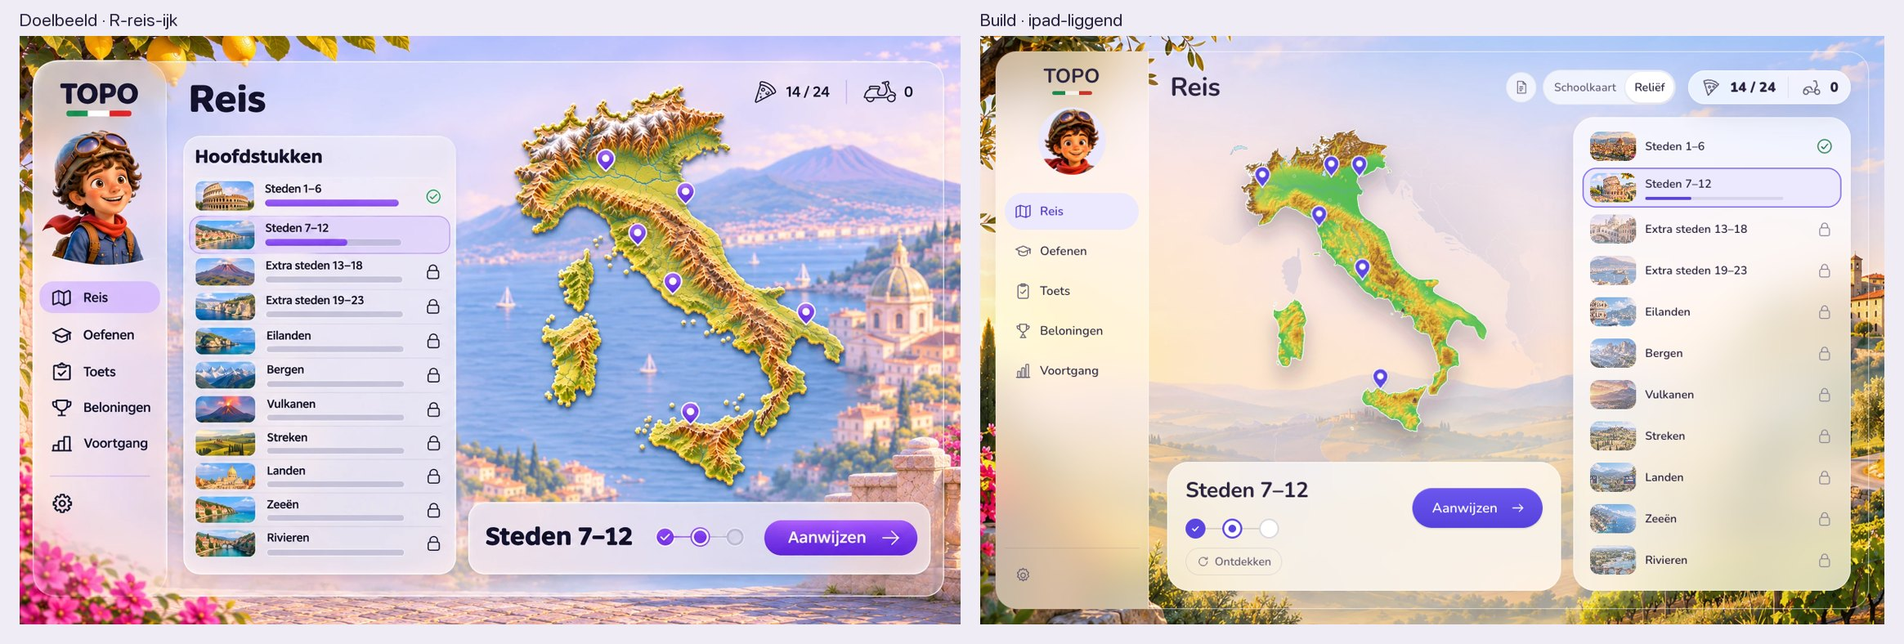
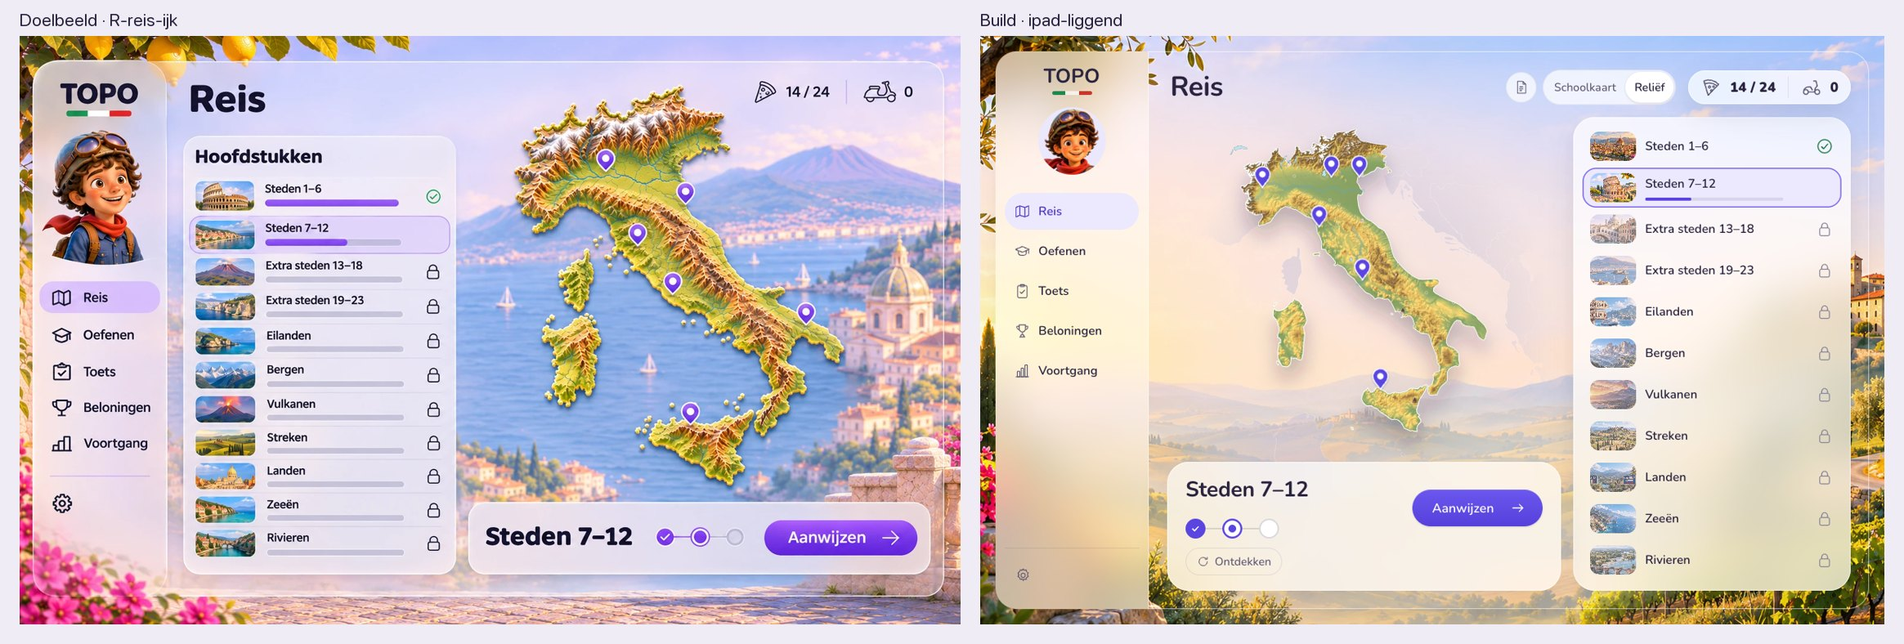
feat(v3): kalibreer typografie, artwork en voortgang (stap 3b)

diff --git a/scripts/v3/afwerking.css b/scripts/v3/afwerking.css
@@ -146,3 +146,67 @@
 .v3 .v3Rewards .v3BookCover{background:none!important;box-shadow:none!important;-webkit-backdrop-filter:none!important;backdrop-filter:none!important;border-radius:20px;cursor:pointer}
 .v3 .v3Rewards .v3BookCover:focus{outline:0}.v3 .v3Rewards .v3BookCover:focus-visible{outline:3px solid var(--v3-focus,#1d6fd8);outline-offset:6px}
 .v3 .v3Rewards .v3BookCover:active .v3CoverArt{transform:rotate(-2deg) scale(.98)}
+
+/* Kalibratie typografie en beeld, eigenaar 10-11 avond. Latest measured scale wins. */
+@media (min-width:768px){
+ .v3,body.v3Les{--v3-display:700 36px/1.15 var(--v3-font);--v3-row:600 16px/22px var(--v3-font);--v3-second:500 13px/18px var(--v3-font);--v3-card-title:700 28px/1.2 var(--v3-font);--v3-cal-nav:16px;--v3-cal-count:18px;--v3-cal-figure:32px;--v3-cal-score:52px;--v3-cal-action:17px;--v3-cal-action-h:48px}
+ body:is(.v3Home,.v3Les)::before{right:auto;width:calc(var(--v3-frame-m) + var(--v3-side-w));background:rgba(249,247,255,.25);-webkit-backdrop-filter:none;backdrop-filter:none}
+ .v3 .v3NavItem,body.v3Les .v3ShellNav .v3NavItem{font:600 var(--v3-cal-nav)/1.3 var(--v3-font)}
+ .v3 .v3NavItem .v3Icon{width:22px;height:22px}
+ .v3Reis :is(.v3Row,.v3Row .v3Name,.v3VgName,.v3Tile span,.v3VgTileLabel,.v3ToetsTile),.v3 :is(.v3Chip,.v3FormBtn),.v3Reis .v3ToetsSide .v3ToetsFouten li{font:var(--v3-row)}
+ .v3Reis .v3Count{font-size:var(--v3-cal-count)}
+ .v3Reis :is(.v3CardTitle,.v3VgKaartTitle){font:var(--v3-card-title)}
+ .v3Reis :is(.v3Rewards .v3Tile b,.v3Rewards .v3Ride>b,.v3VgTileText strong){font:700 var(--v3-cal-figure)/1.1 var(--v3-font)}
+ .v3Reis .v3View-toetsResult .v3ToetsScore{font-size:var(--v3-cal-score)}
+ .v3Reis :is(.v3VgLegend,.v3ToetsFouten li span,.v3VgDate,.v3VgEmpty){font:var(--v3-second)}
+ .v3 .v3Btn.primary{min-height:var(--v3-cal-action-h);font-size:var(--v3-cal-action);font-weight:600}
+ .v3Reis .v3View-toetsResult .v3ToetsScoreCard{padding:16px 24px;background:var(--v3-glass);-webkit-backdrop-filter:var(--v3-glass-filter);backdrop-filter:var(--v3-glass-filter);box-shadow:var(--v3-glass-shadow);border-radius:var(--v3-radius-glass);isolation:isolate}
+ .v3Rewards .v3TileIcon{width:72px;height:72px}
+ .v3Rewards .v3RidePizza{max-width:none;width:140px;max-width:100%}
+ .v3Rewards .v3RideArt{min-height:140px;max-height:210px}
+ .v3View-voortgang .v3VgKaart{background:none;box-shadow:none;border-radius:0}
+ .v3View-voortgang .v3VgMap{width:100%;max-width:100%}
+ .v3View-voortgang .v3VgChapters{overflow:visible;display:grid;gap:2px}
+ .v3View-voortgang .v3VgChapters li{min-height:40px;padding:3px 0}
+}
+@media (min-width:1280px){
+ .v3,body.v3Les{--v3-display:700 44px/1.15 var(--v3-font);--v3-row:600 17px/24px var(--v3-font);--v3-second:500 14px/20px var(--v3-font);--v3-card-title:700 32px/1.2 var(--v3-font);--v3-cal-nav:18px;--v3-cal-count:20px;--v3-cal-figure:40px;--v3-cal-score:64px;--v3-cal-action:18px;--v3-cal-action-h:52px}
+}
+@media (min-width:1024px){
+ /* All eleven rows are laid out; the whole Werkblad scrolls, never a clipped chapter row. */
+ .v3Reis[data-view=voortgang]>.v3View-voortgang{grid-template-columns:minmax(0,7fr) minmax(0,5fr);--v3-vg-h:max(800px,calc(100cqh - 76px - var(--v3-gut)))}
+ .v3View-voortgang .v3VgSide{height:auto;min-height:570px}
+ .v3View-voortgang .v3VgSide .v3Card{position:relative;inset:auto;height:auto;max-height:none;overflow:visible;padding:16px}
+ .v3View-voortgang .v3VgChapters li{grid-template-columns:44px minmax(0,1fr) 32px;gap:8px;position:relative;padding-bottom:7px}
+ .v3View-voortgang .v3VgThumb{width:44px;height:34px}
+ .v3View-voortgang .v3VgSteps{grid-column:2;grid-row:2;height:4px;margin-top:-4px}
+ .v3View-voortgang .v3VgStatus{grid-column:3;grid-row:1/3}
+}
+@media (min-width:1024px){
+ .v3Reis[data-view=voortgang]>.v3View-voortgang{grid-template-rows:auto 620px 204px;grid-auto-rows:auto}
+ .v3View-voortgang .v3VgKaart{height:auto;align-self:stretch}
+ .v3View-voortgang .v3VgKaart .v3VgMap{position:absolute;inset:12px;width:calc(100% - 24px);height:calc(100% - 24px)}
+ .v3View-voortgang .v3VgSide{min-height:0;height:100%}
+ .v3View-voortgang .v3VgSide .v3Card{box-sizing:border-box;height:100%}
+ .v3View-voortgang .v3VgSteps{height:10px}
+ .v3Reis .v3OefPanel .v3Chips{grid-template-columns:repeat(2,minmax(max-content,1fr))}
+ .v3OefPanel .v3Forms{grid-template-columns:repeat(2,minmax(0,1fr));gap:8px}
+ .v3OefPanel .v3FormBtn{flex-direction:row;justify-content:flex-start;min-height:56px;padding:8px;gap:8px;text-align:left}
+ .v3OefPanel{gap:16px;padding:20px}
+}
+@media (max-width:767px){.v3View-voortgang .v3VgKaart{background:none;box-shadow:none}}
+.v3View-voortgang .v3VgMap[data-kaart=eiland]{overflow:hidden!important}
+@media (min-width:1024px){
+ .v3View-voortgang .v3VgSide .v3VgChapters li{height:44px;min-height:44px;box-sizing:border-box;grid-template-rows:24px 10px;padding:0;gap:4px 8px}
+ .v3View-voortgang .v3VgSide .v3VgChapters .v3VgSteps{margin:0;height:10px}
+}
+@media (min-width:1024px){
+ .v3View-voortgang .v3VgKaart{grid-row:2}
+ .v3View-voortgang .v3VgRow{grid-column:1/-1;grid-row:3;grid-template-columns:repeat(3,minmax(0,1fr));grid-template-rows:144px;height:144px}
+ .v3View-voortgang .v3VgRow>.v3VgTile{grid-column:auto;grid-template-columns:48px minmax(0,1fr);row-gap:8px;padding:16px}
+ .v3View-voortgang .v3VgRow>.v3VgTile .v3VgDots{grid-column:2;justify-self:start}
+ .v3View-voortgang .v3VgRow>.v3VgTile .v3VgTileIcon{grid-row:1/3}
+ .v3Reis[data-view=voortgang]>.v3View-voortgang{grid-template-rows:auto 620px 144px}
+}
+.v3VgMap[data-kaart=eiland] .country.v3Hit{fill-opacity:.2!important;stroke-opacity:.4!important}
+.v3VgMap[data-kaart=eiland] .water.v3Hit{fill-opacity:.12!important}

diff --git a/scripts/v3/reis.js b/scripts/v3/reis.js
@@ -128,7 +128,7 @@
   defs.innerHTML='<clipPath id="'+prefix+'italyClip"><path d="'+d+'"/></clipPath>'
    +'<filter id="'+prefix+'isleShadow" x="-20%" y="-20%" width="140%" height="150%"><feDropShadow dx="0" dy="18" stdDeviation="12" flood-color="#2a2440" flood-opacity=".28"/></filter>'
    // Relief depth (afwerking 10-11): saturation 1.15 and a stronger hillshade (contrast around the mid tone).
-   +'<filter id="'+prefix+'reliefDepth" color-interpolation-filters="sRGB"><feColorMatrix type="saturate" values="1.15"/><feComponentTransfer><feFuncR type="linear" slope="1.2" intercept="-.1"/><feFuncG type="linear" slope="1.2" intercept="-.1"/><feFuncB type="linear" slope="1.2" intercept="-.1"/></feComponentTransfer></filter>'
+   +'<filter id="'+prefix+'reliefDepth" color-interpolation-filters="sRGB"><feColorMatrix type="matrix" values=".65 .45 -.10 0 0 .25 .70 .05 0 0 .15 .15 .70 0 0 0 0 0 1 0"/><feColorMatrix type="saturate" values="1.15"/><feComponentTransfer><feFuncR type="linear" slope="1.3" intercept="-.15"/><feFuncG type="linear" slope="1.3" intercept="-.15"/><feFuncB type="linear" slope="1.3" intercept="-.15"/></feComponentTransfer></filter>'
    +'<radialGradient id="'+prefix+'nbGrad" cx=".5" cy=".5" r=".5"><stop offset=".62" stop-color="#fff"/><stop offset="1" stop-color="#000"/></radialGradient>'
    +'<mask id="'+prefix+'nbFade" maskUnits="userSpaceOnUse"><rect class="v3FadeRect" x="0" y="0" width="890" height="1235" fill="url(#'+prefix+'nbGrad)"/></mask>';
   svg.prepend(defs);
@@ -158,7 +158,7 @@
  const CANVAS={w:890,h:1235},MARGIN=.14;
  function fit(svg){
   try{
-   const parts=[...svg.querySelectorAll('.italy,.v3Hit')];if(!parts.length)return;
+   const parts=[...svg.querySelectorAll(svg.dataset.frame==='italy'?'.italy,.v3Isle':'.italy,.v3Hit')];if(!parts.length)return;
    let x0=Infinity,y0=Infinity,x1=-Infinity,y1=-Infinity;
    for(const p of parts){const b=p.getBBox();if(!b.width&&!b.height&&p.tagName!=='circle')continue;x0=Math.min(x0,b.x);y0=Math.min(y0,b.y);x1=Math.max(x1,b.x+b.width);y1=Math.max(y1,b.y+b.height);}
    if(!isFinite(x0))return;

diff --git a/scripts/v3/voortgang.js b/scripts/v3/voortgang.js
@@ -38,7 +38,7 @@
   // Kaart: each place coloured by its status; legend.
   const fig=make('figure','v3VgKaart');
   const svg=V.cloneMap('v3v-','v3VgMap');
-  if(svg){svg.classList.add('v3Map');svg.dataset.relief='off';fig.append(svg);
+  if(svg){svg.classList.add('v3Map');svg.dataset.relief='off';svg.dataset.kaart='eiland';svg.dataset.frame='italy';V.addIsland(svg,'v3v-');fig.append(svg);
    const sea=svg.querySelector('.sea');
    for(const p of pp)svg.querySelectorAll('[data-id="'+p.item.id+'"]').forEach(n=>{n.classList.add('v3Hit','v3St-'+p.status);if(p.item.kind==='river')n.classList.add('v3StLine');});
    requestAnimationFrame(()=>{if(sea)svg.style.setProperty('--v3-sea-school',getComputedStyle(sea).fill);V.fit(svg);});}

diff --git a/scripts/qa-v3-afwerking.py b/scripts/qa-v3-afwerking.py
@@ -20,7 +20,7 @@ Runs with prefers-reduced-transparency: no-preference. Writes results-afwerking.
 
 Usage: node scripts/build-v3-preview.mjs && python3 scripts/qa-v3-afwerking.py [preview.html]
 """
-import asyncio, io, json, pathlib, sys
+import asyncio, io, json, pathlib, sys, os
 from playwright.async_api import async_playwright
 from PIL import Image
 
@@ -43,7 +43,7 @@ TEXTS = r'''() => {
       const clipped = (() => { for (let a = n.parentElement; a && a !== document.body; a = a.parentElement) { const o = cs(a); if (o.overflowX !== 'visible' || o.overflowY !== 'visible') { const q = a.getBoundingClientRect();
         if (r.top < q.top - 1 || r.bottom > q.bottom + 1 || r.left < q.left - 1 || r.right > q.right + 1) return true; } } return false; })();
       return {t: n.textContent.trim().slice(0, 24), color: s.color, size: parseFloat(s.fontSize), weight: parseInt(s.fontWeight), box: [r.left, r.top, r.width, r.height], clipped,
-        disabled: !!n.closest('button[disabled]')}; })
+        kind: n.matches('.v3NavItem,.v3NavItem span') ? 'nav' : n.matches('h1:not(.v3ToetsScore)') ? 'title' : n.matches('.v3Name,.v3VgName,.v3Chip,.v3FormBtn,.v3Tile>span,.v3ToetsTile') ? 'row' : '', disabled: !!n.closest('button[disabled]')}; })
     .filter(x => x.box[2] > 2 && x.box[3] > 2 && x.box[0] >= 0 && x.box[1] >= 0 && x.box[0] + x.box[2] <= W && x.box[1] + x.box[3] <= H && !x.clipped);
 }'''
 
@@ -75,7 +75,7 @@ SCREEN = r'''(screen) => {
   if (screen === 'rewards') { const b = q('.v3BookCover');
     return {openBtn: [...document.querySelectorAll('.v3Rewards button')].some(n => n.checkVisibility() && /Open Reisboekje/.test(n.textContent)), coverTab: b?.tabIndex,
       coverBg: b && cs(b).backgroundColor, coverFilter: b && cs(b).backdropFilter, labels: [...document.querySelectorAll('.v3Rewards .v3Tile span')].map(n => n.textContent.trim())}; }
-  if (screen === 'voortgang') return {lockedBars: [...document.querySelectorAll('.v3VgChapters [data-status=locked] .v3VgSteps')].filter(n => n.checkVisibility({visibilityProperty: true})).length};
+  if (screen === 'voortgang') return {island:q('.v3VgMap')?.dataset.kaart, clippedRows:[...document.querySelectorAll('.v3VgChapters li')].filter(n=>{const r=n.getBoundingClientRect(),p=n.closest('.v3Card').getBoundingClientRect();return r.height<40 || r.top<p.top || r.bottom>p.bottom;}).length, rowCount:document.querySelectorAll('.v3VgChapters li').length, lockedBars: [...document.querySelectorAll('.v3VgChapters [data-status=locked] .v3VgSteps')].filter(n => n.checkVisibility({visibilityProperty: true})).length};
   return null;
 }'''
 
@@ -88,13 +88,15 @@ def screen_checks(screen, vp, lay, sc, f):
         if wide and (lay['nino'] is None or lay['ninoOverlap'] > 0): f(f'Nino overlaps a panel ({lay["ninoOverlap"]} px²)')
         if sc['color'] != sc['accent'] or sc['weight'] != '600': f(f'score {sc["color"]}/{sc["weight"]} (violet 600)')
         if sc['outline'] not in ('none', ''): f(f'focus ring on the score ({sc["outline"]})')
-        if sc['cardBg'] not in ('rgba(0, 0, 0, 0)', 'transparent') or sc['cardShadow'] != 'none': f('score in a card')
+        if sc['cardBg'] in ('rgba(0, 0, 0, 0)', 'transparent') or sc['cardShadow'] == 'none': f('score lacks glass card')
     if screen == 'rewards':
         if sc['openBtn']: f('"Open Reisboekje" button shown')
         if sc['coverTab'] != 0: f(f'book cover not focusable ({sc["coverTab"]})')
         if sc['coverBg'] not in ('rgba(0, 0, 0, 0)', 'transparent') or sc['coverFilter'] != 'none': f(f'circle behind the book ({sc["coverBg"]}, {sc["coverFilter"]})')
         if 'Pizza' not in sc['labels'] or any(l.startswith('Pizza ') for l in sc['labels']): f(f'tile labels {sc["labels"]}')
-    if screen == 'voortgang' and sc['lockedBars']: f(f'{sc["lockedBars"]} locked rows with a bar')
+    if screen == 'voortgang':
+        if sc['lockedBars']: f(f'{sc["lockedBars"]} locked rows with a bar')
+        if sc['island'] != 'eiland' or sc['rowCount'] != 11 or sc['clippedRows']: f(f'progress island/rows {sc}')
 
 
 def lum(rgb):
@@ -151,8 +153,9 @@ async def main():
     async with async_playwright() as pw:
         b = await pw.chromium.launch(executable_path=MAC_CHROME) if pathlib.Path(MAC_CHROME).exists() else await pw.chromium.launch()
         for vp, (w, h) in VIEWPORTS.items():
+            if os.environ.get('TOPO_QA_QUICK') and vp != 'desktop': continue
             for screen in SCREENS:
-                for bg in (BGS if screen in LANDSCHAP and vp != 'ipad-staand' else ['bg01']):
+                for bg in (BGS if not os.environ.get('TOPO_QA_QUICK') and screen in LANDSCHAP and vp != 'ipad-staand' else ['bg01']):
                     tag = f'{screen}/{vp}/{bg}'
                     ctx = await b.new_context(viewport={'width': w, 'height': h}, device_scale_factor=1, has_touch=vp != 'desktop')
                     pg = await ctx.new_page(); errs = []; pg.on('pageerror', lambda e: errs.append(str(e)))
@@ -170,10 +173,14 @@ async def main():
                     hov = await pg.evaluate('document.documentElement.scrollWidth > innerWidth + 1')
                     f = lambda why: fails.append(f'{tag}: {why}')
                     if small: f(f'text < 13 px: {small[:5]}')
+                    for t in texts:
+                        minimum = {'title': 44 if w >= 1280 else 36, 'nav': 18 if w >= 1280 else 16, 'row': 17 if w >= 1280 else 16}.get(t['kind'], 0)
+                        if t['size'] < minimum: f(f"{t['kind']} {t['t']}: {t['size']} < {minimum}")
                     if low: f(f'contrast < AA: {low[:4]}')
                     if hov: f('horizontal overflow')
                     if errs: f(f'page errors {errs[:2]}')
                     if bg == 'bg01': screen_checks(screen, vp, lay, sc, f)
+                    print(tag, 'checked', flush=True)
                     res['runs'][tag] = {'texts': len(texts), 'small': small, 'lowContrast': low} | ({'mapShare': round(lay['share'], 3), 'ninoOverlap': lay['ninoOverlap']} if lay else {})
                     await ctx.close()
         await b.close()

diff --git a/scripts/qa-v3-faseb-toets.py b/scripts/qa-v3-faseb-toets.py
@@ -44,7 +44,7 @@ PROBE = r'''() => {
   const cs = (n, pe) => getComputedStyle(n, pe), px = v => parseFloat(v) || 0, vis = n => n && n.checkVisibility() && n.getBoundingClientRect().width > 0;
   const text = n => [...n.childNodes].some(c => c.nodeType === 3 && c.textContent.trim());
   const view = q('.v3View-toets'), setup = q('.v3ToetsSetup'), nino = q('.v3ToetsSetupNino');
-  const big = [...document.querySelectorAll('.v3Reis *')].filter(n => text(n) && vis(n) && px(cs(n).fontSize) >= 30 && !n.closest('.v3Brand')).map(n => n.textContent.trim().slice(0, 30));
+  const big = [...document.querySelectorAll('.v3Reis *')].filter(n => text(n) && vis(n) && px(cs(n).fontSize) >= 30 && !n.closest('.v3Brand,.v3Field h2')).map(n => n.textContent.trim().slice(0, 30));
   const chips = [...document.querySelectorAll('[aria-labelledby=v3ToetsHoofdstukken] .v3Chip')].map(c => ({t: c.textContent.replace(/\s+/g, ' ').trim(), on: c.getAttribute('aria-pressed') === 'true',
     check: !!c.querySelector('use[href="#topo-v3checkmark"]'), h: Math.round(c.getBoundingClientRect().height), clip: c.scrollWidth > c.clientWidth + 1, l: Math.round(c.getBoundingClientRect().left)}));
   const forms = [...document.querySelectorAll('[aria-labelledby=v3ToetsVorm] .v3FormBtn')].map(b => ({v: b.dataset.value, icons: b.querySelectorAll('svg.v3Icon').length, img: !!b.querySelector('img')}));
@@ -63,7 +63,7 @@ RESULT = r'''() => {
   const cs = (n, pe) => getComputedStyle(n, pe), px = v => parseFloat(v) || 0, vis = n => n && n.checkVisibility() && n.getBoundingClientRect().width > 0;
   const text = n => [...n.childNodes].some(c => c.nodeType === 3 && c.textContent.trim());
   const v = q('.v3View-toetsResult'), map = v.querySelector('.v3ToetsMap'), card = v.querySelector('.v3ToetsScoreCard'), side = v.querySelector('.v3ToetsSide');
-  const big = [...document.querySelectorAll('.v3Reis *')].filter(n => text(n) && vis(n) && px(cs(n).fontSize) >= 30 && !n.closest('.v3Brand')).map(n => n.textContent.trim().slice(0, 30));
+  const big = [...document.querySelectorAll('.v3Reis *')].filter(n => text(n) && vis(n) && px(cs(n).fontSize) >= 30 && !n.closest('.v3Brand,.v3Field h2')).map(n => n.textContent.trim().slice(0, 30));
   const mb = R(map), marks = [...map.querySelectorAll('.v3Mark circle')].map(R);
   const tiles = [...v.querySelectorAll('.v3ToetsTile')].map(b => ({t: b.textContent.trim(), icon: !!b.querySelector('svg.v3Icon')}));
   const prim = v.querySelector('.v3ToetsActions .primary');
@@ -85,7 +85,7 @@ def result_checks(p, tag, variant, wide, fail):
     if p['kaart'] != variant: f(f'map variant {p["kaart"]}')
     if variant == 'eiland' and 'v3t-italyClip' not in p['clip']: f(f'relief not clipped ({p["clip"]})')
     if p['sideBg'] in ('rgba(0, 0, 0, 0)', 'transparent'): f('panel not glass')
-    if p['cardBg'] not in ('rgba(0, 0, 0, 0)', 'transparent') or p['cardShadow'] != 'none': f('score in a card')
+    if p['cardBg'] in ('rgba(0, 0, 0, 0)', 'transparent') or p['cardShadow'] == 'none': f('score lacks glass card')
     if [t['t'] for t in p['tiles']] != ['Nieuwe toets', 'Kopieer', 'E-mail', 'Print'] or not all(t['icon'] for t in p['tiles']): f(f'tiles {p["tiles"]}')
     if p['primary'] != 'Oefen deze fouten' or not p['primaryIcon']: f(f'primary {p["primary"]}')
     if len(p['rows']) != 3 or not all(p['rows']): f(f'mistake rows with × {p["rows"]}')

diff --git a/scripts/qa-v3-faseb-voortgang.py b/scripts/qa-v3-faseb-voortgang.py
@@ -71,12 +71,12 @@ def checks(p, tag, vp, fail):
     f = lambda why: fail(f'{tag}: {why}')
     # Afwerking 10-11: key figures are 32–44/700 by design; the words are only the title.
     words = [t for t in p['big'] if not FIG.match(t)]
-    if words != ['Voortgang'] or p['countText'] not in p['big'] or not p['countText'].endswith(' / 45'): f(f'display texts {p["big"]}')
+    if [w for w in words if not w.startswith('Italië')] != ['Voortgang'] or p['countText'] not in p['big'] or not p['countText'].endswith(' / 45'): f(f'display texts {p["big"]}')
     if p['h1Color'] != p['ink'] or p['countColor'] != p['ink']: f(f'title bar not in ink ({p["h1Color"]}, {p["countColor"]})')
     wide = vp != 'telefoon'
     if wide and not near(p['h1']['t'] + p['h1']['h'] / 2, p['count']['t'] + p['count']['h'] / 2, 4): f('title and count not on one line')
     if p['bar']['h'] < 14 or (wide and p['bar']['w'] < .4 * p['inner']): f(f'bar not broad ({p["bar"]["w"]:.0f}×{p["bar"]["h"]:.0f})')
-    if p['figBg'] != 'rgb(255, 255, 255)' or not p['svgIn'] or p['relief'] != 'off': f(f'map card ({p["figBg"]}, svg {p["svgIn"]}, relief {p["relief"]})')
+    if p['figBg'] not in ('rgba(0, 0, 0, 0)', 'transparent') or not p['svgIn'] or p['relief'] != 'off': f(f'map card ({p["figBg"]}, svg {p["svgIn"]}, relief {p["relief"]})')
     if p['legend'] != ['Beheerst', 'Bezig', 'Nog niet'] or not p['legendIn']: f(f'legend {p["legend"]}')
     if p['fillHi'] and p['fillHi'] != p['accent']: f(f'mastered place {p["fillHi"]} ≠ accent {p["accent"]}')
     if p['fillLo'] and p['fillLo'] != 'rgb(243, 236, 220)': f(f'place not started {p["fillLo"]} ≠ cream')
@@ -93,9 +93,9 @@ def checks(p, tag, vp, fail):
         if not near(sd['l'], fig['r'] + g, 1.5) or not near(sd['r'], x1, 1.5): f(f'chapters not between the map card and the inner margin ({sd["l"]:.1f}–{sd["r"]:.1f})')
         if not near(sd['t'], fig['t']): f('map card and chapters not on one top line')
         if p['sideScroll']['sh'] > p['sideScroll']['ch'] + 1 and p['sideScroll']['ov'] not in ('auto', 'scroll'): f('chapters overflow without their own scroll')
-        dg, pz, rd = p['dag'], p['piz'], p['rid']
-        if not near(dg['l'], sd['l']) or not near(dg['r'], sd['r']) or dg['t'] < sd['b'] or not near(pz['l'], sd['l']) or not near(rd['r'], sd['r']) or not near(pz['t'], rd['t']) or not near(rd['b'], fig['b']):
-            f('Dagdoel over the column, Pizza’s and Vespa-ritten side by side on the map card’s bottom line')
+        tiles = [p['dag'], p['piz'], p['rid']]
+        if max(t['t'] for t in tiles) - min(t['t'] for t in tiles) > 1 or min(t['t'] for t in tiles) < fig['b'] or max(t['w'] for t in tiles) - min(t['w'] for t in tiles) > 1:
+            f('three equal tiles must follow the map and chapter row')
     if p['hOverflow']: f('horizontal overflow')
 
 

diff --git a/scripts/qa-v3-faseb.py b/scripts/qa-v3-faseb.py
@@ -47,7 +47,7 @@ PROBE = r'''() => {
   const gut = px(rs.columnGap), inner = gut + 8;
   const rows = R(q('.v3Rows')), main = R(q('.v3Main')), title = R(q('.v3ScreenTitle')), top = R(q('.v3Main>.v3Top')), card = R(q('.v3Panel')), stage = R(q('.v3MapStage'));
   const content = frame.w - side.w - 2 * inner, col = (content - 11 * gut) / 12;
-  const big = [...document.querySelectorAll('.v3Reis *')].filter(n => n.childNodes.length && [...n.childNodes].some(c => c.nodeType === 3 && c.textContent.trim()) && n.checkVisibility() && px(cs(n).fontSize) >= 30 && !n.closest('.v3Brand'))
+  const big = [...document.querySelectorAll('.v3Reis *')].filter(n => n.childNodes.length && [...n.childNodes].some(c => c.nodeType === 3 && c.textContent.trim()) && n.checkVisibility() && px(cs(n).fontSize) >= 30 && !n.closest('.v3Brand,.v3CardTitle'))
     .map(n => n.textContent.trim().slice(0, 30));
   const lt = q('#v3ListTitle'), ltVisible = lt && lt.getBoundingClientRect().width > 2;
   const rowInfo = [...document.querySelectorAll('.v3Row')].map(b => ({state: b.dataset.state, bar: !!b.querySelector('.v3RowBar'), icon: (b.querySelector('.v3End use')?.getAttribute('href') || '').replace('#topo-', '')}));

diff --git a/scripts/qa-v3-faseb-oefenen.py b/scripts/qa-v3-faseb-oefenen.py
@@ -84,7 +84,7 @@ def checks(p, vp, variant, case, fail):
     if len(p['forms']) != 4 or not all(x['icon'] and not x['img'] for x in p['forms']): f(f'form tiles {p["forms"]}')
     if case != 'smart':
         if p['line'] != '1px': f(f'line between form and group {p["line"]}')
-        want = 2 if vp in ('telefoon', 'ipad-liggend') else 3
+        want = 2 if vp in ('desktop', 'telefoon', 'ipad-liggend') else 3
         if p['chipCols'] != want: f(f'{p["chipCols"]} chip columns ≠ {want}')
         bad = [c for c in p['chipInfo'] if c['h'] > 48 or c['clip'] or c['out']]
         if bad: f(f'chips not on one line inside the panel {bad[:3]}')

diff --git a/docs/DECISIONS.md b/docs/DECISIONS.md
@@ -885,3 +885,12 @@ Volgens renders/README § "Afwerking na fase B" en § "Bijstelling eigenaar (10-
 **Open:**
 - de Les in Focus Mode (iPad) is nog de gecentreerde kaart met het blad onderaan: ongeveer 35% van het vlak, niet herschikt;
 - NINO-ONDERWEG: de masters liggen op `art/master` en gaan via de artworkpijplijn. Tot dan staat de huidige pose, vrij geplaatst.
+
+## 2026-11-10 — Kalibratie typografie en beeld (overdracht stap 3b)
+
+- De avondkalibratie in renders/README vervangt de eerdere typeschaal: desktop titel 44, kaarttitel 32, nav 18, rijen/chips 17, tellers 20, tegels 40 en toetsscore 64; de iPad-waarden volgen de aparte kolom. Gewichten blijven 600/700 volgens de tabel.
+- De wash eindigt bij de zijbalk, zonder filter op het inhoudsvlak. Het gemeten z8-reliëf behoudt zijn sneeuw en geometrie; alleen de kleurmatrix (olijf/geel, wit blijft wit), verzadiging 1,15 en contrast 1,3 veranderen.
+- Toetsresultaat krijgt weer een glaskaart rond label en score; dit vervangt de kaderloze score van de middag. Programmatische focus verandert de maat niet en tekent geen ring op de kop.
+- Voortgang gebruikt Eiland. Elf rijen zijn elk minimaal 40 px en volledig binnen hun hoofdstukpaneel; de drie even brede tegels volgen onder de kaart/lijst. Het gehele Werkblad scrolt, ook naar Toetsen en het kennis-paspoort.
+- Oefenen gebruikt op desktop twee chipkolommen en compacte 2×2-vormtegels. Dit wijkt af van de eerdere drie kolommen: volledige namen op 17 px, kaart ≥45% en bediening rechts passen samen niet in vijf kolommen met drie chips naast elkaar. De selectie, inhoud en acties veranderen niet.
+- QA: minimumgroottes per elementtype toegevoegd aan qa-v3-afwerking.py, plus Eiland, elf rijen en afsnijding. Historische fase-B-asserties volgen de avondkalibratie (kaarttitels zijn geen extra schermtitels, score op glas).

diff --git a/docs/qa/v3-afwerking/README.md b/docs/qa/v3-afwerking/README.md
@@ -40,3 +40,11 @@ Gemeten (`mapShare` in `results-afwerking.json`): Reis 52%, Oefenen 49% (desktop
 De vergelijkingen naast de renders staan opnieuw in [`docs/qa/v3-stijlbeeld/`](../v3-stijlbeeld/README.md). Ze worden gemaakt door `qa-v3-faseb*.py`.
 
 Open: de Les in Focus Mode (iPad) houdt zijn eigen indeling (ongeveer 35%). NINO-ONDERWEG volgt via de artworkpijplijn.
+
+## Overdracht stap 3b — avondkalibratie
+
+De typeschaal volgt nu de gemeten desktop- en iPad-tabel in renders/README. De wash staat alleen achter de zijbalk, het reliëf is warmer (wit blijft wit) en heeft contrast 1,3. Het resultaatlabel en de violette score staan weer op glas. Voortgang is Eiland met elf volledige rijen van minstens 40 px; de drie gelijke tegels staan onder de kaart/lijst en het Werkblad scrolt als geheel.
+
+De checks meten minimumgroottes van titel, nav en rijen/chips; daarnaast elf rijen zonder afsnijding en Eiland. `TOPO_QA_QUICK=1` draait alleen desktop/BG-01 voor een tussentijdse controle; de eindcontrole gebruikt de volledige matrix zonder die variabele. Definitief bewijs volgt in stap 5.
+
+Afwijking: Oefenen heeft ook op desktop twee chipkolommen, om de volledige namen op 17 px samen met de grote kaart en bediening rechts te laten passen. De iPad-les in Focus Mode blijft het eerder vastgelegde open punt (geen herschikking van de V2-focuslogica).
